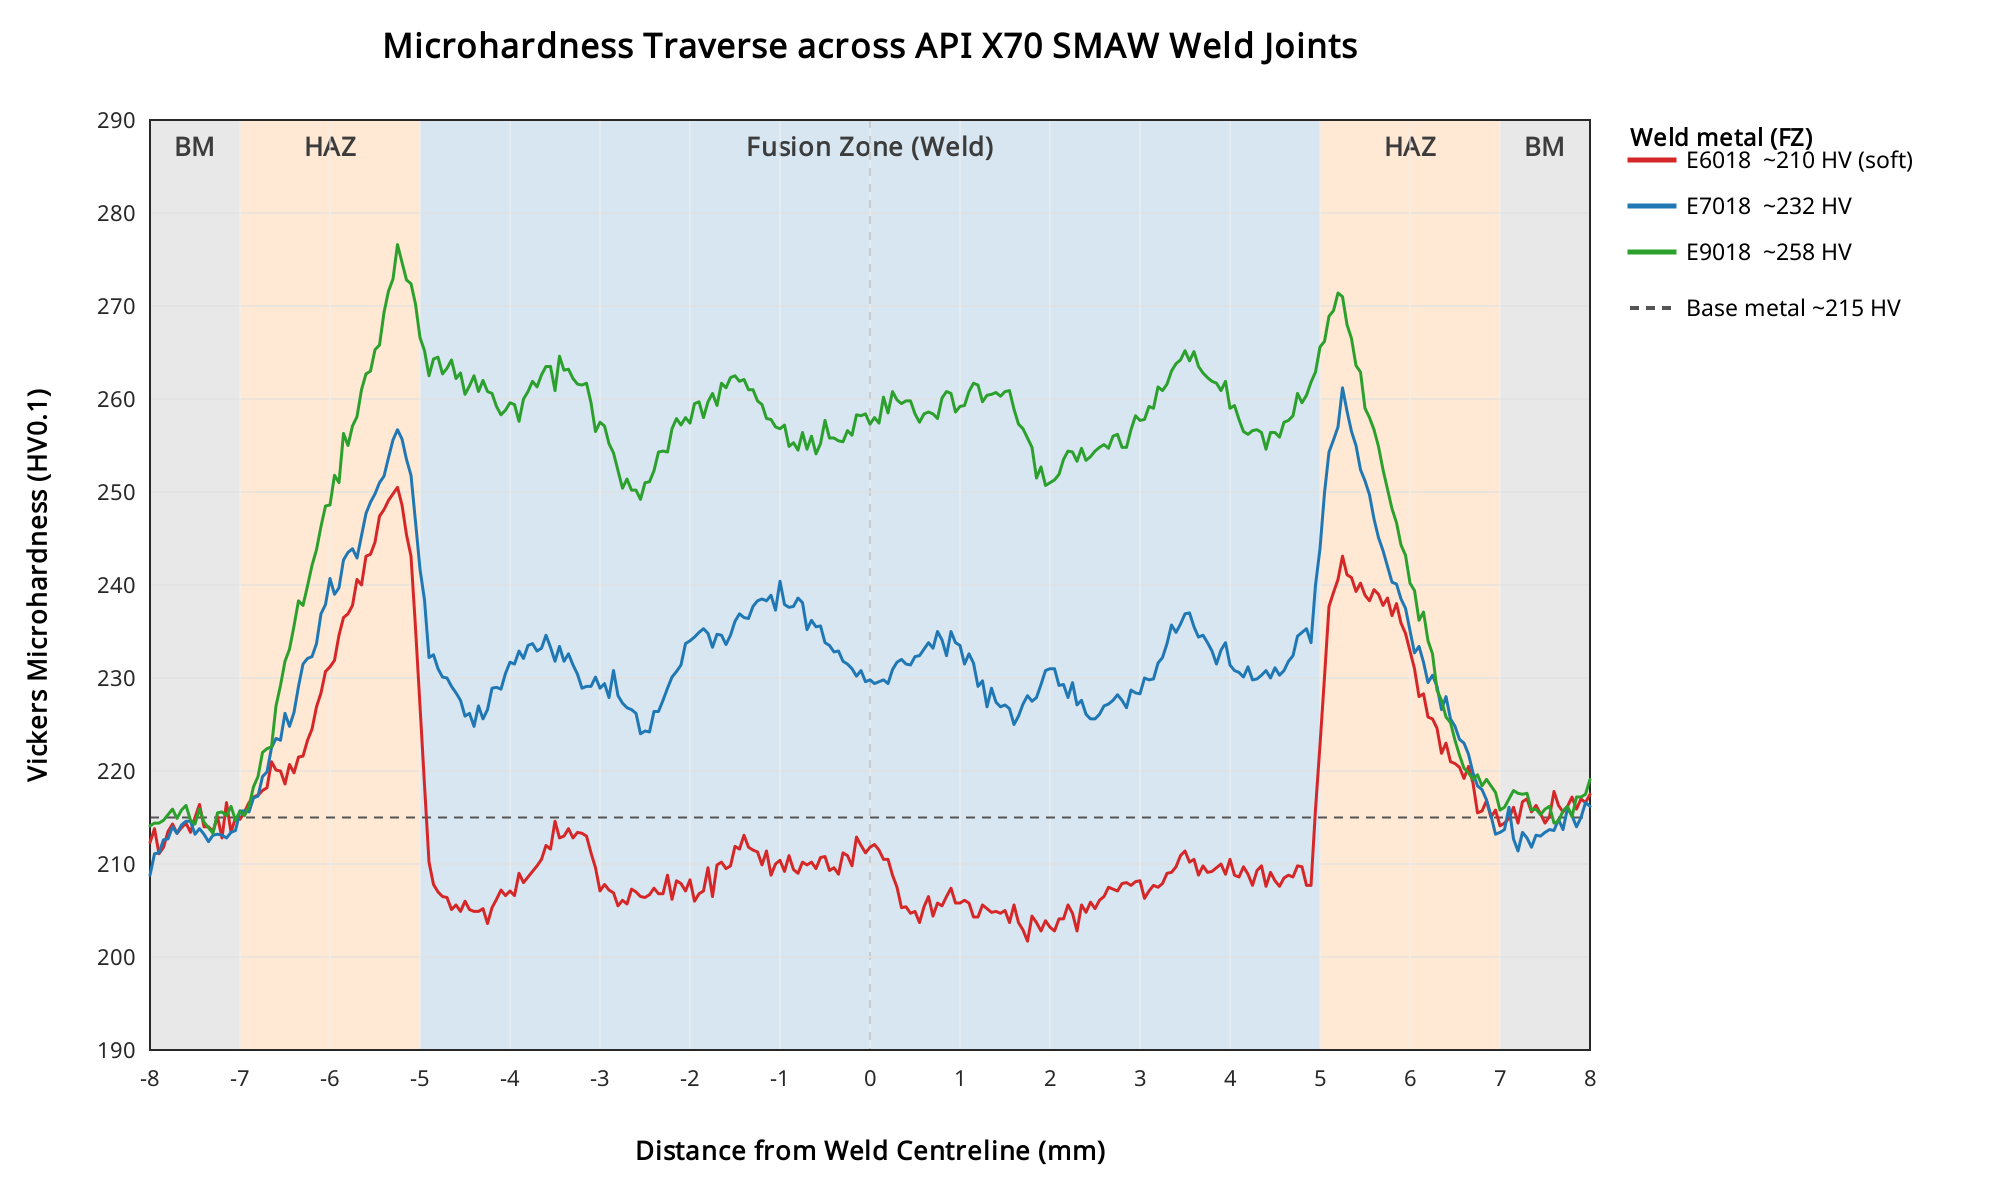
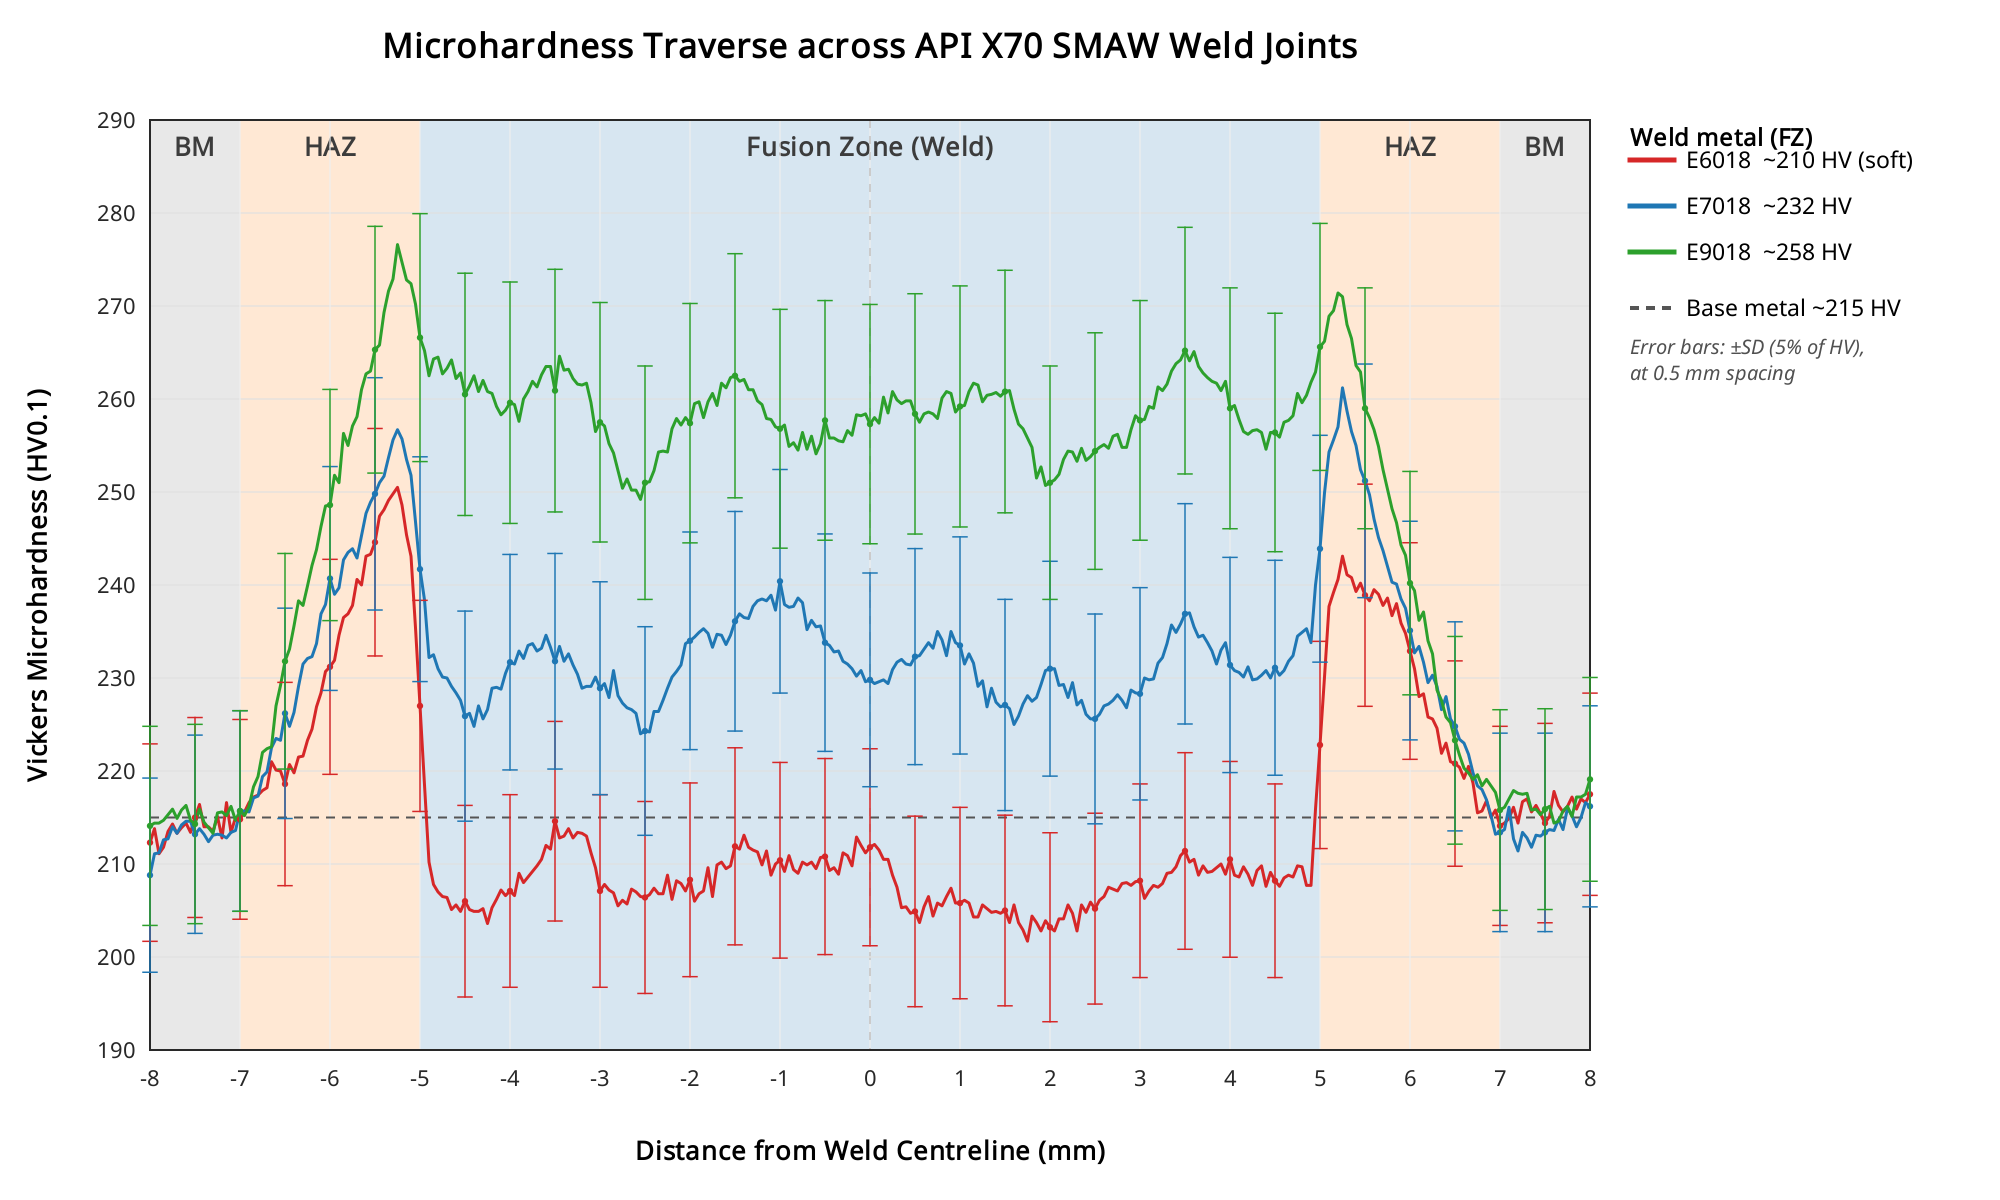
Add +/-SD (5%) error bars to plot and SD columns to Excel workbook

diff --git a/HardnessPlot.java b/HardnessPlot.java
@@ -112,6 +112,25 @@ public class HardnessPlot {
             g.draw(path);
         }
 
+        // ---- error bars: +/- SD (5% of HV) at 0.5 mm indentation spacing ----
+        double capHalf = 7;          // px half-width of the cap
+        for (int c = 0; c < 3; c++) {
+            g.setColor(colors[c]);
+            for (double xt = X_MIN; xt <= X_MAX + 1e-6; xt += 0.5) {
+                double v = valueAt(rows, xt, c + 1);
+                if (Double.isNaN(v)) continue;
+                double sd = 0.05 * v;                 // SD = 5%
+                double px = sx(xt);
+                double yHi = sy(v + sd), yLo = sy(v - sd);
+                g.setStroke(new BasicStroke(1.5f));
+                g.draw(new Line2D.Double(px, yHi, px, yLo));           // whisker
+                g.draw(new Line2D.Double(px - capHalf, yHi, px + capHalf, yHi)); // top cap
+                g.draw(new Line2D.Double(px - capHalf, yLo, px + capHalf, yLo)); // bot cap
+                double r = 3.2;                                        // marker
+                g.fill(new Ellipse2D.Double(px - r, sy(v) - r, 2 * r, 2 * r));
+            }
+        }
+
         // ---- titles ----
         g.setColor(Color.BLACK);
         g.setFont(new Font("SansSerif", Font.BOLD, 34));
@@ -152,9 +171,23 @@ public class HardnessPlot {
         g.setColor(Color.BLACK);
         g.drawString("Base metal ~215 HV", lx + 56, yy + 8);
 
+        // error-bar note
+        int ey = yy + 46;
+        g.setColor(new Color(80,80,80));
+        g.setFont(new Font("SansSerif", Font.ITALIC, 20));
+        g.drawString("Error bars: \u00B1SD (5% of HV),", lx, ey);
+        g.drawString("at 0.5 mm spacing", lx, ey + 26);
+
         g.dispose();
         ImageIO.write(img, "png", new File("hardness_profile.png"));
         System.out.println("wrote hardness_profile.png (" + W + "x" + H + ")");
+    }
+
+    /** Nearest-sample hardness value for column col (1=E6018,2=E7018,3=E9018). */
+    static double valueAt(List<double[]> rows, double x, int col) {
+        for (double[] r : rows)
+            if (Math.abs(r[0] - x) < 1e-6) return r[col];
+        return Double.NaN;
     }
 
     static void band(Graphics2D g, double x0, double x1, Color base, int alpha) {

diff --git a/make_xlsx.py b/make_xlsx.py
@@ -52,12 +52,17 @@ with open(CSV) as f:
     for row in r:
         rows.append(row)
 
-# ---- Sheet 1: data ----
-data_rows = [[(h, False, 1) for h in header]]
+# ---- Sheet 1: data (with SD = 5% of each HV value) ----
+hdr = ["Position_mm", "E6018_HV", "E6018_SD", "E7018_HV", "E7018_SD",
+       "E9018_HV", "E9018_SD", "Zone"]
+data_rows = [[(h, False, 1) for h in hdr]]
 for row in rows:
     x, e6, e7, e9, zone = row
-    data_rows.append([(float(x), True, 0), (float(e6), True, 0),
-                      (float(e7), True, 0), (float(e9), True, 0),
+    e6, e7, e9 = float(e6), float(e7), float(e9)
+    data_rows.append([(float(x), True, 0),
+                      (e6, True, 0), (round(0.05 * e6, 2), True, 0),
+                      (e7, True, 0), (round(0.05 * e7, 2), True, 0),
+                      (e9, True, 0), (round(0.05 * e9, 2), True, 0),
                       (zone, False, 0)])
 
 # ---- zone statistics ----
@@ -80,6 +85,7 @@ srow(("Microhardness Traverse — API X70 SMAW Weld Joints", False, 1))
 srow(("Generated", False, 0), (datetime.date.today().isoformat(), False, 0))
 srow(("Traverse", False, 0), ("-8 mm to +8 mm, step 0.05 mm (321 points/curve)", False, 0))
 srow(("Fusion line", False, 0), ("|x| = 5 mm; HAZ 5-7 mm; Base metal |x| > 7 mm", False, 0))
+srow(("Error bars", False, 0), ("SD = 5% of each HV value (see *_SD columns on Hardness Data)", False, 0))
 srow()
 srow(("Zone statistics (HV0.1): mean / min / max", False, 1))
 srow(("Electrode", False, 1), ("Region", False, 1), ("Mean", False, 1),
